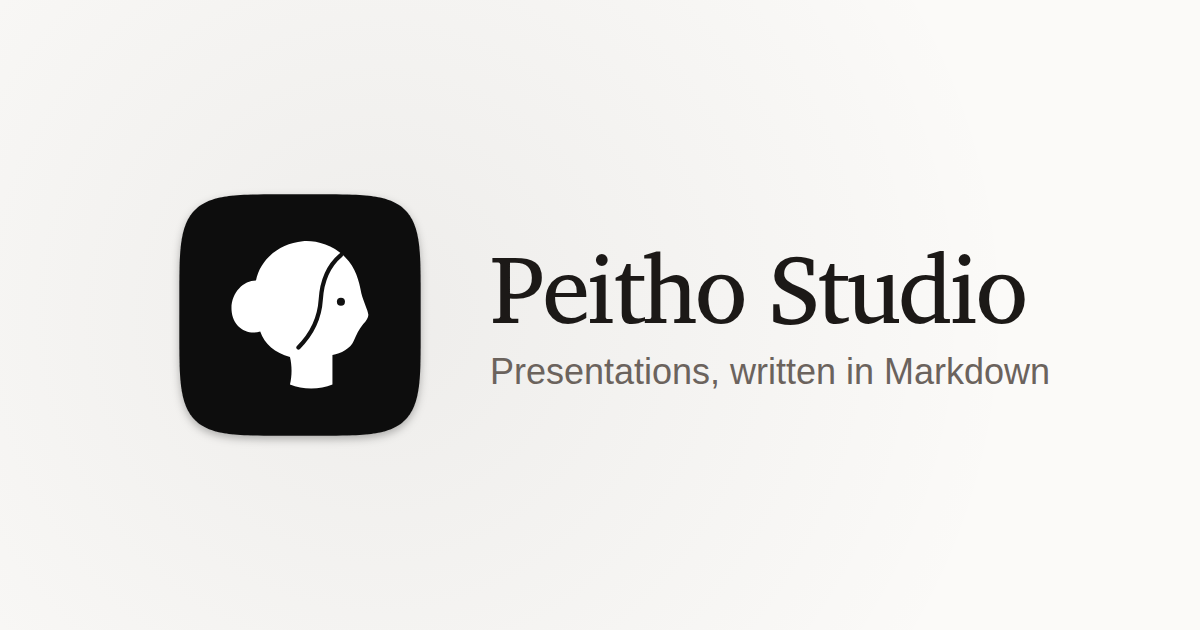
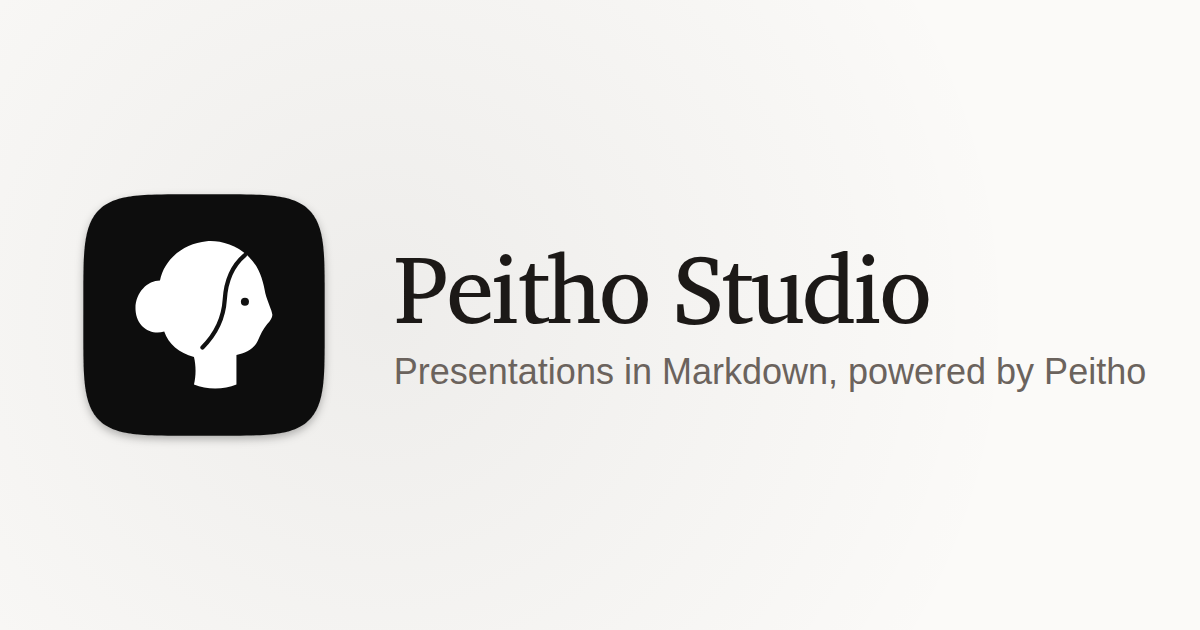
Say that Peitho powers Peitho Studio in its tagline
"Presentations, written in Markdown" said what the app is for but dropped
what it is built on. Make it "Presentations in Markdown, powered by Peitho"
(Peitho linked in the hero, with its link style back), in the hero, the
page title, the meta/OG descriptions and the OG image. Balance the hero
line's wrapping so a phone doesn't leave "Peitho" alone on the second line.

Claude-Session: https://claude.ai/code/session_01XBe8icZmUznvew9dJNfAH3

Changed region(s): [[0.0617, 0.3016, 0.9558, 0.7238]]

diff --git a/site/index.html b/site/index.html
@@ -3,8 +3,8 @@
 <head>
   <meta charset="utf-8">
   <meta name="viewport" content="width=device-width, initial-scale=1">
-  <title>Peitho Studio — Presentations, written in Markdown</title>
-  <meta name="description" content="Peitho Studio is a desktop app for writing presentations in Markdown, built on Peitho, an HTML-native presentation tool that treats Markdown as the source of truth.">
+  <title>Peitho Studio — Presentations in Markdown, powered by Peitho</title>
+  <meta name="description" content="Peitho Studio is a desktop app for writing presentations in Markdown, powered by Peitho, an HTML-native presentation tool that treats Markdown as the source of truth.">
   <meta name="theme-color" content="#fbfaf8">
   <meta name="color-scheme" content="light">
   <link rel="icon" type="image/svg+xml" href="../brand/app-icon-small.svg">
@@ -15,7 +15,7 @@
   <meta property="og:type" content="website">
   <meta property="og:site_name" content="Peitho Studio">
   <meta property="og:title" content="Peitho Studio">
-  <meta property="og:description" content="Presentations, written in Markdown.">
+  <meta property="og:description" content="Presentations in Markdown, powered by Peitho.">
   <meta property="og:image" content="/og.png">
   <meta property="og:image:width" content="1200">
   <meta property="og:image:height" content="630">
@@ -39,7 +39,7 @@
       <div class="hero-copy">
         <img class="hero-icon" src="../brand/app-icon.svg" alt="" width="128" height="128">
         <h1 id="title">Peitho Studio</h1>
-        <p class="hero-lede">Presentations, written in Markdown</p>
+        <p class="hero-lede">Presentations in Markdown, powered by <a href="https://peitho.gosu.ke">Peitho</a></p>
         <div id="download-button" class="download">
           <!-- Replaced by the DownloadPanel island; kept as the no-JS fallback. -->
           <a class="btn btn-big" href="https://github.com/piconic-ai/peitho-studio/releases/latest">Download</a>

diff --git a/site/scripts/build-brand-assets.ts b/site/scripts/build-brand-assets.ts
@@ -41,7 +41,7 @@ await shoot(`<div style="width:1200px;height:630px;display:flex;align-items:cent
   background:radial-gradient(640px 640px at 380px 315px, rgba(28,25,23,.06), rgba(28,25,23,0)), #fbfaf8;color:#1c1917">
   <img src="${appIcon}" width="300" height="300">
   <div><div style="font-family:'Charis SIL',serif;font-size:96px;letter-spacing:-.03em;line-height:1.05">Peitho Studio</div>
-  <div style="font-family:-apple-system,BlinkMacSystemFont,'Segoe UI','Noto Sans',Helvetica,Arial,sans-serif;font-size:36px;color:#6b635d;margin-top:14px">Presentations, written in Markdown</div></div></div>`,
+  <div style="font-family:-apple-system,BlinkMacSystemFont,'Segoe UI','Noto Sans',Helvetica,Arial,sans-serif;font-size:36px;color:#6b635d;margin-top:14px">Presentations in Markdown, powered by Peitho</div></div></div>`,
   1200, 630, 'og.png')
 
 copyFileSync(resolve(ROOT, 'src-tauri/icons/32x32.png'), resolve(OUT, 'favicon-32.png'))

diff --git a/site/public/site.css b/site/public/site.css
@@ -56,7 +56,8 @@ section { width: min(1080px, 100% - 40px); margin-inline: auto; }
 .hero-icon { width: 128px; height: 128px; margin: 0 auto 10px; } /* the SVG carries its own shadow and grid margin */
 h1, h2 { font-family: var(--serif); font-weight: 400; letter-spacing: -0.03em; }
 .hero h1 { margin: 0; font-size: clamp(44px, 8vw, 72px); line-height: 1.05; }
-.hero-lede { margin: 12px 0 0; font-size: clamp(18px, 2.6vw, 21px); color: var(--muted); }
+.hero-lede { margin: 12px 0 0; font-size: clamp(18px, 2.6vw, 21px); color: var(--muted); text-wrap: balance; }
+.hero-lede a { color: var(--fg); font-weight: 500; }
 
 /* The app window */
 .window {

diff --git a/site/README.md b/site/README.md
@@ -7,7 +7,7 @@ from the app (its own `package.json` and lockfile), living in `site/`.
 ## Stack
 
 - One static `index.html`, styled by `public/site.css` (light only):
-  - a hero with the app icon, "Peitho Studio", "Presentations, written in Markdown" and
+  - a hero with the app icon, "Peitho Studio", "Presentations in Markdown, powered by Peitho" and
     the download button, above a screenshot of Studio with a deck open,
     framed as a window (`public/studio.webp`, `studio@2x.webp`);
   - a "Built on Peitho" card: Peitho's one-line description and a small
